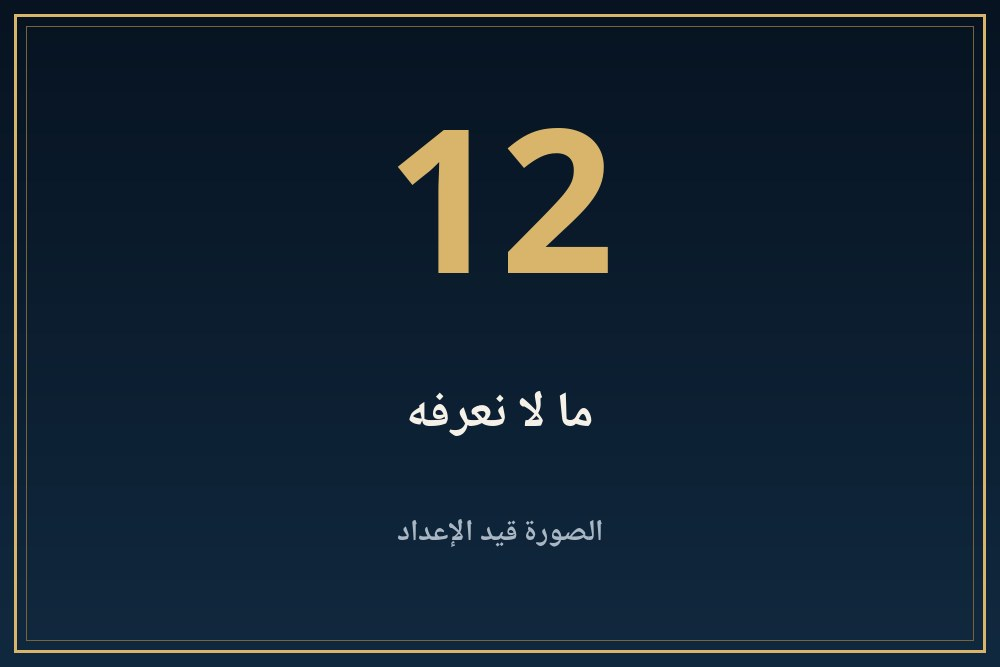
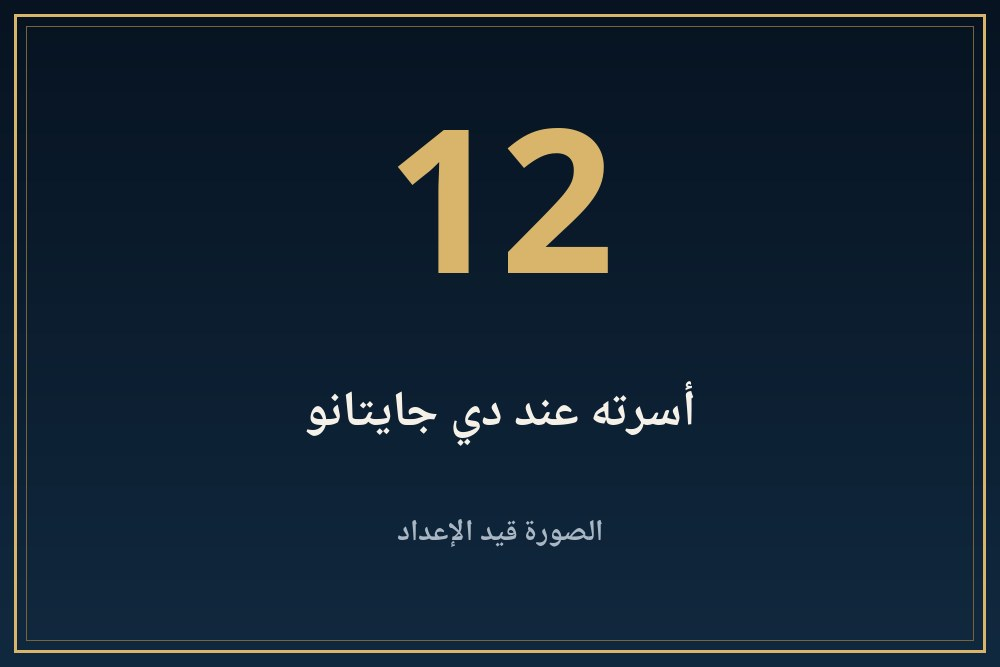
King card 54 folder 103: updated JSON

Changed region(s): [[0.31, 0.5697, 0.713, 0.6597]]

diff --git a/kings/103-nfr-htb-alawl-kha-skhm-ra/index.html b/kings/103-nfr-htb-alawl-kha-skhm-ra/index.html
@@ -320,11 +320,11 @@ html[dir=ltr] #panav.open,#pash[dir=ltr] #panav.open{border-right:0!important;bo
 .abt li{display:grid;grid-template-columns:62px 1fr;gap:10px;align-items:baseline;font-size:14px;line-height:1.85;color:#d6dee8}
 .abt li b{color:#d8b56b;font-size:13px;font-weight:700}
 @media(max-width:520px){.abt li{grid-template-columns:1fr;gap:0}.abt li b{margin-bottom:0}}</style><style id="back-ctl">.back-controls{z-index:80}.back-controls{position:fixed;bottom:18px;left:18px;z-index:30;display:flex;flex-direction:row;align-items:center;gap:8px;direction:ltr}.back-top{position:static;background:#d8b56b;color:#091725;border:1px solid rgba(240,215,157,.65);border-radius:50%;width:36px;height:36px;min-width:36px;padding:0;font-size:18px;line-height:1;cursor:pointer;box-shadow:0 5px 16px #0005;display:none;align-items:center;justify-content:center}.back-top.visible{display:flex}.back-top:hover{background:#f0d79d;transform:translateY(-1px)}@media(max-width:600px){.back-controls{bottom:12px;left:12px;gap:6px}.back-top{width:34px;height:34px;min-width:34px;font-size:17px}}.back-controls{display:flex;flex-direction:row;align-items:center;justify-content:center;gap:7px;direction:ltr}.back-top{width:32px;height:32px;min-width:32px;font-size:16px;background:#d8b56b;color:#091725;border:1px solid #f0d79d;box-shadow:0 4px 12px #0005}@media(max-width:600px){.back-controls{left:12px;bottom:12px;gap:6px}.back-top{width:31px;height:31px;min-width:31px;font-size:15px}}</style><style id="herodesk">@media(min-width:768px){header.hero{display:block!important}header.hero .hero-img{display:block!important;margin:0 auto 28px!important;max-width:460px!important;width:100%!important}header.hero .hero-img img{width:100%!important;height:auto!important;border-radius:18px}header.hero .hero-txt{margin-top:0!important}}</style><style id="urlwrap">.acc .body,.acc .body p,.acc .body li,.acc .body a,.acc .body ol,.acc .body ul{overflow-wrap:anywhere;word-break:break-word;min-width:0;max-width:100%}.acc .body a{display:inline;unicode-bidi:plaintext}</style></head><div class="pa-topline"></div><div id="pash"><div class="pa-nav"><a aria-label="بر عنخ الرئيسية" class="pa-brand" href="/"><span class="pa-mark"><span>𓂀</span></span><span class="pa-name">PER ANKH<small>بيت الحياة · HOUSE OF LIFE</small></span></a><nav aria-label="التنقل الرئيسي في الموقع" id="panav"><a href="/#home" data-ar="الرئيسية" data-en="Home">الرئيسية</a><a href="/#discover" data-ar="الأقسام الرئيسية" data-en="Main sections">الأقسام الرئيسية</a><a href="/#kings-details" data-ar="الملوك" data-en="Kings">الملوك</a><a href="/#religion-details" data-ar="الديانة" data-en="Religion">الديانة</a><a href="/#timeline-details" data-ar="العصور والأسرات" data-en="Eras &amp; dynasties">العصور والأسرات</a><a href="/#sites-details" data-ar="المواقع الأثرية" data-en="Archaeological sites">المواقع الأثرية</a><a href="/#library-details" data-ar="المكتبة" data-en="Library">المكتبة</a><a href="/#learning-details" data-ar="التعلم والاختبار" data-en="Learning &amp; quiz">التعلم والاختبار</a><a href="/#about" data-ar="المؤسس" data-en="Founder">المؤسس</a><a class="nav-extra" href="/#architecture-details" data-ar="العمارة والفنون" data-en="Architecture &amp; art">العمارة والفنون</a><a class="nav-extra" href="/#daily-life-details" data-ar="الحياة اليومية" data-en="Daily life">الحياة اليومية</a><a class="nav-extra" href="/#virtual-museum" data-ar="المتحف الافتراضي" data-en="Virtual museum">المتحف الافتراضي</a><a class="nav-extra" href="/#digital-lab" data-ar="معمل الآثار الرقمي" data-en="Digital archaeology lab">معمل الآثار الرقمي</a><a class="nav-extra" href="/#academy-details" data-ar="أكاديمية بر عنخ" data-en="Per Ankh academy">أكاديمية بر عنخ</a><a class="nav-extra" href="/#references-details" data-ar="المراجع والمصادر" data-en="References &amp; sources">المراجع والمصادر</a><a class="nav-extra" href="/#library-expanded" data-ar="المكتبة الأثرية" data-en="Archaeological library">المكتبة الأثرية</a><a class="nav-extra" href="/#interactive-lab" data-ar="مختبر الحضارة التفاعلي" data-en="Interactive lab">مختبر الحضارة التفاعلي</a><a class="nav-extra" href="/#atlas-explorer" data-ar="الأطلس الأثري" data-en="Archaeological atlas">الأطلس الأثري</a><a class="nav-extra" href="/#photo-gallery" data-ar="معرض الصور الأثري" data-en="Photo gallery">معرض الصور الأثري</a><a class="nav-extra" href="/#community-hub" data-ar="مجتمع بر عنخ" data-en="Community">مجتمع بر عنخ</a></nav><div class="pa-act"><button class="pa-lang" id="paLang" type="button">EN</button><a class="pa-acc" id="paAcc" href="/?account=1" data-ar="حسابي" data-en="Account" aria-label="فتح حساب المستخدم">حسابي</a><button class="pa-menu" id="paMenu" type="button" aria-controls="panav" aria-expanded="false" aria-haspopup="true" aria-label="فتح قائمة أقسام الموقع">☰</button></div></div></div><main class="wrap"><nav class="pa-crumb" id="paCrumb" aria-label="مسار الصفحة"><a href="/" data-ar="الرئيسية" data-en="Home">الرئيسية</a><i aria-hidden="true">‹</i><a href="/#kings-details" data-ar="ملوك مصر القديمة" data-en="Ancient Egyptian Kings">ملوك مصر القديمة</a><i aria-hidden="true">‹</i><span aria-current="page" data-ar="نفر حتب الأول (خع سخم رع)" data-en="Neferhotep I">نفر حتب الأول (خع سخم رع)</span></nav><p class="pa-ennote" id="paNote" hidden>The Neferhotep I article below is in Arabic. An English translation has not been prepared yet.</p><article><header class="hero"><i class="deco l"></i><i class="deco r"></i><div class="hero-img"><img src="banners/cover_b.jpg?v=3" alt="نفر حتب الأول (خع سخم رع)" width="900" height="1200" fetchpriority="high"></div>
-<div class="hero-txt"><div class="eyebrow" aria-hidden="true"></div><h1>نفر حتب الأول (خع سخم رع)</h1><p class="sub">ملك من منتصف الأسرة الثالثة عشرة؛ شواهده تمتد من أبيدوس وأسوان إلى جبيل</p></div></header><div class="tools"><button id="all" type="button"><svg viewBox="0 0 24 24" width="24" height="24" fill="none" stroke="currentColor" stroke-width="2.4" stroke-linecap="round" stroke-linejoin="round" aria-hidden="true"><path d="M6 6l6 6 6-6M6 13l6 6 6-6"/></svg><span>فتح الكل</span></button><button id="none" type="button"><svg viewBox="0 0 24 24" width="24" height="24" fill="none" stroke="currentColor" stroke-width="2" stroke-linejoin="round" stroke-linecap="round" aria-hidden="true"><rect x="3" y="4" width="18" height="16" rx="2"/><circle cx="9" cy="9.5" r="1.6" fill="currentColor"/><path d="M3.5 18l5.5-5.5 4 4 3-3 4.5 4.5"/></svg><span>إغلاق الكل</span></button></div><div class="legend" role="note"><b>دليل العلامات في الصفحة</b>
+<div class="hero-txt"><div class="eyebrow" aria-hidden="true"></div><h1>نفر حتب الأول (خع سخم رع)</h1><p class="sub">لوحة العرابة: ملك يبحث في الكتب القديمة عن صورة أوزير</p></div></header><div class="tools"><button id="all" type="button"><svg viewBox="0 0 24 24" width="24" height="24" fill="none" stroke="currentColor" stroke-width="2.4" stroke-linecap="round" stroke-linejoin="round" aria-hidden="true"><path d="M6 6l6 6 6-6M6 13l6 6 6-6"/></svg><span>فتح الكل</span></button><button id="none" type="button"><svg viewBox="0 0 24 24" width="24" height="24" fill="none" stroke="currentColor" stroke-width="2" stroke-linejoin="round" stroke-linecap="round" aria-hidden="true"><rect x="3" y="4" width="18" height="16" rx="2"/><circle cx="9" cy="9.5" r="1.6" fill="currentColor"/><path d="M3.5 18l5.5-5.5 4 4 3-3 4.5 4.5"/></svg><span>إغلاق الكل</span></button></div><div class="legend" role="note"><b>دليل العلامات في الصفحة</b>
 <div class="row"><span class="bdg v">موثّق</span><span>مذكور في مصدر مرقّم يمكن فتحه من قسم المراجع.</span></div>
 <div class="row"><span class="bdg d">محل خلاف</span><span>الصفحة نفسها تذكر أن الباحثين أو المصادر مختلفون فيه.</span></div>
 <div class="row"><span class="bdg u">لم يُتحقق منه</span><span>الصفحة تذكر أنه من مصدر واحد ولم يُتحقق منه في مصدر ثانٍ.</span></div></div>
-<div class="band" aria-hidden="true"></div><details class="acc k1" id="s1"><summary><img class="bnr" src="banners/b01.jpg?v=1" alt="" width="1000" height="667"><span class="n">1</span><span class="t">من هو؟</span><span class="ch"></span></summary><div class="body"><button class="lbtn" type="button" disabled aria-disabled="true" style="opacity:.55;cursor:default"><svg viewBox="0 0 24 24" fill="currentColor" aria-hidden="true"><path d="M7 4.5v15a1 1 0 001.5.86l12-7.5a1 1 0 000-1.72l-12-7.5A1 1 0 007 4.5z"/></svg><span>التعليق الصوتي قريبًا</span></button><p><span class="bdg v">موثّق</span> يقول سليم (ج4 ص53) إن «نفر حتب» خلف سبك حتب الثالث بحسب ورقة تورين، وإن اسمه «خع سخم رع». ويقول (ص105) إن نظام الحكم في الأسرة الثالثة عشرة بقي كما كان في الأسرة الثانية عشرة.<sup><a href="#r1">[1]</a></sup></p></div></details><details class="acc k2" id="s2"><summary><img class="bnr" src="banners/b02.jpg?v=1" alt="" loading="lazy" width="1000" height="667"><span class="n">2</span><span class="t">أسرته</span><span class="ch"></span></summary><div class="body"><button class="lbtn" type="button" disabled aria-disabled="true" style="opacity:.55;cursor:default"><svg viewBox="0 0 24 24" fill="currentColor" aria-hidden="true"><path d="M7 4.5v15a1 1 0 001.5.86l12-7.5a1 1 0 000-1.72l-12-7.5A1 1 0 007 4.5z"/></svg><span>التعليق الصوتي قريبًا</span></button><p><span class="bdg v">موثّق</span> يقول سليم (ص53) إن نسبه عرف من ثلاثة نقوش على الصخر (أسوان وسهل وشط الرجال) ومن جعارين: أبوه «حاعنخف» وأمه «كمي» وزوجه «سنسنب» وبكره «ساحتحور» الذي اشترك معه في الحكم. وله ثلاثة أولاد آخرون هم «سبك حتب» و«حاعنخف» و«حرحتب»، وأخوان تولى كل منهما العرش فيما بعد: سبك حتب الرابع و«من وازرع».<sup><a href="#r1">[1]</a></sup></p></div></details><details class="acc k3" id="s3"><summary><img class="bnr" src="banners/b03.jpg?v=1" alt="" loading="lazy" width="1000" height="667"><span class="n">3</span><span class="t">لوحة العرابة: ما طلبه الملك</span><span class="ch"></span></summary><div class="body"><button class="lbtn" type="button" disabled aria-disabled="true" style="opacity:.55;cursor:default"><svg viewBox="0 0 24 24" fill="currentColor" aria-hidden="true"><path d="M7 4.5v15a1 1 0 001.5.86l12-7.5a1 1 0 000-1.72l-12-7.5A1 1 0 007 4.5z"/></svg><span>التعليق الصوتي قريبًا</span></button><p><span class="bdg v">موثّق</span> ينقل سليم (ص54-55) لوحة في العرابة المدفونة من السنة الثانية، فيها أن الملك جمع الأشراف وكتاب الكتب السرية وقال إن قلبه تاق إلى رؤية الكتابات القديمة الخاصة بآتوم، وإنه يريد أن يعرف أوزير في صورته الحقيقية ليصنع له تمثالا كما كان قديما. فأجابه الأشراف بأن كل ما يأمر به سينفذ، فذهب إلى المكتبة وفتح الكتب ووجد سجلات معبد أوزير.<sup><a href="#r1">[1]</a></sup></p></div></details><details class="acc k4" id="s4"><summary><img class="bnr" src="banners/b04.jpg?v=1" alt="" loading="lazy" width="1000" height="667"><span class="n">4</span><span class="t">الرحلة والاحتفال</span><span class="ch"></span></summary><div class="body"><button class="lbtn" type="button" disabled aria-disabled="true" style="opacity:.55;cursor:default"><svg viewBox="0 0 24 24" fill="currentColor" aria-hidden="true"><path d="M7 4.5v15a1 1 0 001.5.86l12-7.5a1 1 0 000-1.72l-12-7.5A1 1 0 007 4.5z"/></svg><span>التعليق الصوتي قريبًا</span></button><p><span class="bdg v">موثّق</span> يقول سليم (ص55-56) إن الملك أمر ضابطا بأن يصعد في النيل بجنود وبحارة دون نوم حتى يصل إلى العرابة ويأتي بتمثال أوزير، ثم وصل الملك بعد أيام في القارب المقدس، وأخرج التمثال من قبره، وقدم القرابين، وسار وبوات أمامه مرشدا، ووضع التمثال في المحراب الذهبي أسابيع أثناء عمل الصناع، وأشرف الملك بنفسه على ما يصاغ من الذهب.<sup><a href="#r1">[1]</a></sup></p></div></details><details class="acc k1" id="s5"><summary><img class="bnr" src="banners/b05.jpg?v=1" alt="" loading="lazy" width="1000" height="667"><span class="n">5</span><span class="t">دراما موت أوزير</span><span class="ch"></span></summary><div class="body"><button class="lbtn" type="button" disabled aria-disabled="true" style="opacity:.55;cursor:default"><svg viewBox="0 0 24 24" fill="currentColor" aria-hidden="true"><path d="M7 4.5v15a1 1 0 001.5.86l12-7.5a1 1 0 000-1.72l-12-7.5A1 1 0 007 4.5z"/></svg><span>التعليق الصوتي قريبًا</span></button><p><span class="bdg v">موثّق</span> يقول سليم (ص54) إن الملك أحضر على حسب أوامره الخاصة تمثال أوزير من قبره ليقابله عند وصوله، ثم عاد الملك والتمثال معا إلى المعبد، وهناك مثلت «دراما» موت أوزير ثم إحيائه، وإن سليم تكلم عن ذلك في الجزء الثالث.<sup><a href="#r1">[1]</a></sup></p></div></details><details class="acc k2" id="s6"><summary><img class="bnr" src="banners/b06.jpg?v=1" alt="" loading="lazy" width="1000" height="667"><span class="n">6</span><span class="t">تحذير الملك</span><span class="ch"></span></summary><div class="body"><button class="lbtn" type="button" disabled aria-disabled="true" style="opacity:.55;cursor:default"><svg viewBox="0 0 24 24" fill="currentColor" aria-hidden="true"><path d="M7 4.5v15a1 1 0 001.5.86l12-7.5a1 1 0 000-1.72l-12-7.5A1 1 0 007 4.5z"/></svg><span>التعليق الصوتي قريبًا</span></button><p><span class="bdg v">موثّق</span> ينقل سليم (ص56-57) قول الملك للكهنة بأن يبقوا يقظين في المعبد ويحافظوا على آثاره، وأن من يعاديه لن يبقى اسمه بين الأحياء، وأن العقاب سيحل بكل من يهمل أوامره، وأنه أقام هذه الآثار لأوزير لأنه أحبه أكثر من كل ما سواه، وأن يمنحه «ملايين السنين».<sup><a href="#r1">[1]</a></sup></p></div></details><details class="acc k3" id="s7"><summary><img class="bnr" src="banners/b07.jpg?v=1" alt="" loading="lazy" width="1000" height="667"><span class="n">7</span><span class="t">لوحتا حدود الجبانة</span><span class="ch"></span></summary><div class="body"><button class="lbtn" type="button" disabled aria-disabled="true" style="opacity:.55;cursor:default"><svg viewBox="0 0 24 24" fill="currentColor" aria-hidden="true"><path d="M7 4.5v15a1 1 0 001.5.86l12-7.5a1 1 0 000-1.72l-12-7.5A1 1 0 007 4.5z"/></svg><span>التعليق الصوتي قريبًا</span></button><p><span class="bdg v">موثّق</span> يقول سليم (ص57) إن الملك أقام بعد عامين، في السنة الرابعة، لوحتين حدا الجبانة العظيمة خلف العرابة لمنع العامة من اقتحام هذا الجزء، وتخصيصه لوبوات، وبقيت إحداهما. ويذكر أن من وجد داخل الحد تجب معاقبته ولو كان صانعا أو كاهنا.<sup><a href="#r1">[1]</a></sup></p></div></details><details class="acc k4" id="s8"><summary><img class="bnr" src="banners/b08.jpg?v=1" alt="" loading="lazy" width="1000" height="667"><span class="n">8</span><span class="t">شريكاه في الحكم</span><span class="ch"></span></summary><div class="body"><button class="lbtn" type="button" disabled aria-disabled="true" style="opacity:.55;cursor:default"><svg viewBox="0 0 24 24" fill="currentColor" aria-hidden="true"><path d="M7 4.5v15a1 1 0 001.5.86l12-7.5a1 1 0 000-1.72l-12-7.5A1 1 0 007 4.5z"/></svg><span>التعليق الصوتي قريبًا</span></button><p><span class="bdg d">محل خلاف</span> يقول سليم (ص58) إن «خع نفر سبك حتب» (أي سبك حتب الرابع) أشرك معه في الحكم، فقد ذكر اسماهما معا على حجر في الكرنك، لكن ورقة تورين وضعت بينهما «سيحتحور رع». ويرى سليم أن نفر حتب أشرك ابنه ساحتحور وأنه مات قبل أبيه، وأن لا أثر له. وينقل (ص61) عن إدورد مري أن ساحتحور لم يحكم إلا ثلاثة أيام ثم خلفه عمه.<sup><a href="#r1">[1]</a></sup></p></div></details><details class="acc k1" id="s9"><summary><img class="bnr" src="banners/b09.jpg?v=1" alt="" loading="lazy" width="1000" height="667"><span class="n">9</span><span class="t">جبيل وسواحل المتوسط</span><span class="ch"></span></summary><div class="body"><button class="lbtn" type="button" disabled aria-disabled="true" style="opacity:.55;cursor:default"><svg viewBox="0 0 24 24" fill="currentColor" aria-hidden="true"><path d="M7 4.5v15a1 1 0 001.5.86l12-7.5a1 1 0 000-1.72l-12-7.5A1 1 0 007 4.5z"/></svg><span>التعليق الصوتي قريبًا</span></button><p><span class="bdg d">محل خلاف</span> يقول سليم (ص58-59) إن ويجول رأى أن الدلتا أفلتت من هذه الأسرة وأن ملوك الأسرة الرابعة عشرة في سخا استولوا عليها، لكنه يرد بكشف في جبيل (ببلوص): حجر عليه أمير جالس وسطر بخرطوش «خع سخم رع نفر حتب» واسم أمير جبيل «بنتن» (وقرأه ديسو «يوناتان») ابن الأمير «رن». ويستنتج سليم أن الملك كان لا يزال يسيطر على ساحل المتوسط، ومنه أن الدلتا كانت في قبضته. فهذا استنتاج سليم، وهو يخالف رأي ويجول.<sup><a href="#r1">[1]</a></sup></p></div></details><details class="acc k2" id="s10"><summary><img class="bnr" src="banners/b10.jpg?v=1" alt="" loading="lazy" width="1000" height="667"><span class="n">10</span><span class="t">جنوبا وآثاره</span><span class="ch"></span></summary><div class="body"><button class="lbtn" type="button" disabled aria-disabled="true" style="opacity:.55;cursor:default"><svg viewBox="0 0 24 24" fill="currentColor" aria-hidden="true"><path d="M7 4.5v15a1 1 0 001.5.86l12-7.5a1 1 0 000-1.72l-12-7.5A1 1 0 007 4.5z"/></svg><span>التعليق الصوتي قريبًا</span></button><p><span class="bdg v">موثّق</span> يقول سليم (ص59-60) إن نفوذه امتد جنوب الشلال الثاني، فعثر على لوحة باسمه في بوهن قرب وادي حلفا ونقوش على صخور كونوسو وسهل وشط الرجال، وإن تمثالا صغيرا له من البروفير في متحف بولونيا، وإن اسمه جاء في قاعة الأجداد وورقة تورين، وإنه حكم نحو إحدى عشرة سنة على وجه التقريب.<sup><a href="#r1">[1]</a></sup></p></div></details><details class="acc k3" id="s11"><summary><img class="bnr" src="banners/b11.jpg?v=1" alt="" loading="lazy" width="1000" height="667"><span class="n">11</span><span class="t">أين كان مقره؟</span><span class="ch"></span></summary><div class="body"><button class="lbtn" type="button" disabled aria-disabled="true" style="opacity:.55;cursor:default"><svg viewBox="0 0 24 24" fill="currentColor" aria-hidden="true"><path d="M7 4.5v15a1 1 0 001.5.86l12-7.5a1 1 0 000-1.72l-12-7.5A1 1 0 007 4.5z"/></svg><span>التعليق الصوتي قريبًا</span></button><p><span class="bdg d">محل خلاف</span> يقول سليم (ص105) إنه «يظهر» أن مقر ملكه كان في منطقة منف، وإن ملوك الأسرة كانوا يقطعون الأحجار من وادي الحمامات لتماثيل ضخمة. وتمثال بولونيا عند سليم (ص59) يدل على أن منف كانت لا تزال في يده.<sup><a href="#r1">[1]</a></sup></p></div></details><details class="acc k4" id="s12"><summary><img class="bnr" src="banners/b12.jpg?v=1" alt="" loading="lazy" width="1000" height="667"><span class="n">12</span><span class="t">ما لا نعرفه</span><span class="ch"></span></summary><div class="body"><button class="lbtn" type="button" disabled aria-disabled="true" style="opacity:.55;cursor:default"><svg viewBox="0 0 24 24" fill="currentColor" aria-hidden="true"><path d="M7 4.5v15a1 1 0 001.5.86l12-7.5a1 1 0 000-1.72l-12-7.5A1 1 0 007 4.5z"/></svg><span>التعليق الصوتي قريبًا</span></button><p><span class="bdg u">لم يُتحقق منه</span> لا نقرأ في مقتطفنا ترتيب الأحداث بعد السنة الرابعة ولا كيف انتهى حكمه ولا مكان قبره. وبعض الجمل في لوحة العرابة مهشمة في نص سليم نفسه (ص56). جدول المقابلة: بطاقات الموقع تعد «سوبك حتب» الثاني هو خع عنخ رع والخامس هو خع حتب رع. وسليم حسن يسميهما «الخامس» و«السادس» على الترتيب، ويسمي خع نفر رع «الرابع» وسخم رع سواد تاوي «الثالث» مثل القائمة. ونعتمد ترقيم بطاقات الموقع مع ذكر ترقيم سليم عند كل ملك.</p></div></details><details class="acc k4" id="refs"><summary><img class="bnr" src="banners/b13.jpg?v=1" alt="" loading="lazy" width="1000" height="667"><span class="n">13</span><span class="t">المراجع</span><span class="ch"></span></summary><div class="body"><button class="lbtn" type="button" disabled aria-disabled="true" style="opacity:.55;cursor:default"><svg viewBox="0 0 24 24" fill="currentColor" aria-hidden="true"><path d="M7 4.5v15a1 1 0 001.5.86l12-7.5a1 1 0 000-1.72l-12-7.5A1 1 0 007 4.5z"/></svg><span>التعليق الصوتي قريبًا</span></button><p><b>مصادر فتحتُ صفحاتها وقرأتها:</b></p><ol><li id="r1" dir="auto">سليم حسن، موسوعة مصر القديمة، ج4 (طبعة هنداوي 2019)، أرقام صفحات PDF</li></ol><div class="flag"><b>تنبيه:</b> عدد المصادر المصرية المفتوحة لهذه الصفحة واحد فقط. لا نضيف تفاصيل لم تثبت في مصدر فتحناه وقرأنا نصه، وحيث يختلف المصدران ننسب كل رأي لصاحبه.</div></div></details></article><aside class="abt" aria-label="عن هذه الصفحة"><h3>عن هذه الصفحة</h3><ul><li><b>المحتوى</b><span>جزء من موسوعة بر عنخ التعليمية. التواريخ والتفسيرات وفق المراجع المتاحة، وقد تختلف التفاصيل بين الدراسات.</span></li><li><b>الصور</b><span>صور هذه الصفحة أماكن حجز مؤقتة إلى أن تُضاف الصور الفنية.</span></li><li><b>الصوت</b><span>التعليق الصوتي قيد الإعداد.</span></li></ul></aside><a class="back" href="/kings/">← تصفح المزيد</a><a class="back" href="/">العودة إلى الرئيسية</a><dialog id="lb"><img alt=""><p></p><button type="button">إغلاق</button></dialog>
+<div class="band" aria-hidden="true"></div><details class="acc k1" id="s1"><summary><img class="bnr" src="banners/b01.jpg?v=1" alt="" width="1000" height="667"><span class="n">1</span><span class="t">من هو؟</span><span class="ch"></span></summary><div class="body"><button class="lbtn" type="button" disabled aria-disabled="true" style="opacity:.55;cursor:default"><svg viewBox="0 0 24 24" fill="currentColor" aria-hidden="true"><path d="M7 4.5v15a1 1 0 001.5.86l12-7.5a1 1 0 000-1.72l-12-7.5A1 1 0 007 4.5z"/></svg><span>التعليق الصوتي قريبًا</span></button><p><span class="bdg v">موثّق</span> يقول سليم (ج4 ص53) إن «نفر حتب» خلف سبك حتب الثالث بحسب ورقة تورين، وإن اسمه «خع سخم رع». ويقول (ص105) إن نظام الحكم في الأسرة الثالثة عشرة بقي كما كان في الأسرة الثانية عشرة.<sup><a href="#r1">[1]</a></sup></p></div></details><details class="acc k2" id="s2"><summary><img class="bnr" src="banners/b02.jpg?v=1" alt="" loading="lazy" width="1000" height="667"><span class="n">2</span><span class="t">أسرته</span><span class="ch"></span></summary><div class="body"><button class="lbtn" type="button" disabled aria-disabled="true" style="opacity:.55;cursor:default"><svg viewBox="0 0 24 24" fill="currentColor" aria-hidden="true"><path d="M7 4.5v15a1 1 0 001.5.86l12-7.5a1 1 0 000-1.72l-12-7.5A1 1 0 007 4.5z"/></svg><span>التعليق الصوتي قريبًا</span></button><p><span class="bdg v">موثّق</span> يقول سليم (ص53) إن نسبه عرف من ثلاثة نقوش على الصخر (أسوان وسهل وشط الرجال) ومن جعارين: أبوه «حاعنخف» وأمه «كمي» وزوجه «سنسنب» وبكره «ساحتحور» الذي اشترك معه في الحكم. وله ثلاثة أولاد آخرون هم «سبك حتب» و«حاعنخف» و«حرحتب»، وأخوان تولى كل منهما العرش فيما بعد: سبك حتب الرابع و«من وازرع».<sup><a href="#r1">[1]</a></sup></p></div></details><details class="acc k3" id="s3"><summary><img class="bnr" src="banners/b03.jpg?v=1" alt="" loading="lazy" width="1000" height="667"><span class="n">3</span><span class="t">لوحة العرابة: ما طلبه الملك</span><span class="ch"></span></summary><div class="body"><button class="lbtn" type="button" disabled aria-disabled="true" style="opacity:.55;cursor:default"><svg viewBox="0 0 24 24" fill="currentColor" aria-hidden="true"><path d="M7 4.5v15a1 1 0 001.5.86l12-7.5a1 1 0 000-1.72l-12-7.5A1 1 0 007 4.5z"/></svg><span>التعليق الصوتي قريبًا</span></button><p><span class="bdg v">موثّق</span> ينقل سليم (ص54-55) لوحة في العرابة المدفونة من السنة الثانية، فيها أن الملك جمع الأشراف وكتاب الكتب السرية وقال إن قلبه تاق إلى رؤية الكتابات القديمة الخاصة بآتوم، وإنه يريد أن يعرف أوزير في صورته الحقيقية ليصنع له تمثالا كما كان قديما. فأجابه الأشراف بأن كل ما يأمر به سينفذ، فذهب إلى المكتبة وفتح الكتب ووجد سجلات معبد أوزير.<sup><a href="#r1">[1]</a></sup></p></div></details><details class="acc k4" id="s4"><summary><img class="bnr" src="banners/b04.jpg?v=1" alt="" loading="lazy" width="1000" height="667"><span class="n">4</span><span class="t">الرحلة والاحتفال</span><span class="ch"></span></summary><div class="body"><button class="lbtn" type="button" disabled aria-disabled="true" style="opacity:.55;cursor:default"><svg viewBox="0 0 24 24" fill="currentColor" aria-hidden="true"><path d="M7 4.5v15a1 1 0 001.5.86l12-7.5a1 1 0 000-1.72l-12-7.5A1 1 0 007 4.5z"/></svg><span>التعليق الصوتي قريبًا</span></button><p><span class="bdg v">موثّق</span> يقول سليم (ص55-56) إن الملك أمر ضابطا بأن يصعد في النيل بجنود وبحارة دون نوم حتى يصل إلى العرابة ويأتي بتمثال أوزير، ثم وصل الملك بعد أيام في القارب المقدس، وأخرج التمثال من قبره، وقدم القرابين، وسار وبوات أمامه مرشدا، ووضع التمثال في المحراب الذهبي أسابيع أثناء عمل الصناع، وأشرف الملك بنفسه على ما يصاغ من الذهب.<sup><a href="#r1">[1]</a></sup></p></div></details><details class="acc k1" id="s5"><summary><img class="bnr" src="banners/b05.jpg?v=1" alt="" loading="lazy" width="1000" height="667"><span class="n">5</span><span class="t">دراما موت أوزير</span><span class="ch"></span></summary><div class="body"><button class="lbtn" type="button" disabled aria-disabled="true" style="opacity:.55;cursor:default"><svg viewBox="0 0 24 24" fill="currentColor" aria-hidden="true"><path d="M7 4.5v15a1 1 0 001.5.86l12-7.5a1 1 0 000-1.72l-12-7.5A1 1 0 007 4.5z"/></svg><span>التعليق الصوتي قريبًا</span></button><p><span class="bdg v">موثّق</span> يقول سليم (ص54) إن الملك أحضر على حسب أوامره الخاصة تمثال أوزير من قبره ليقابله عند وصوله، ثم عاد الملك والتمثال معا إلى المعبد، وهناك مثلت «دراما» موت أوزير ثم إحيائه، وإن سليم تكلم عن ذلك في الجزء الثالث.<sup><a href="#r1">[1]</a></sup></p></div></details><details class="acc k2" id="s6"><summary><img class="bnr" src="banners/b06.jpg?v=1" alt="" loading="lazy" width="1000" height="667"><span class="n">6</span><span class="t">تحذير الملك</span><span class="ch"></span></summary><div class="body"><button class="lbtn" type="button" disabled aria-disabled="true" style="opacity:.55;cursor:default"><svg viewBox="0 0 24 24" fill="currentColor" aria-hidden="true"><path d="M7 4.5v15a1 1 0 001.5.86l12-7.5a1 1 0 000-1.72l-12-7.5A1 1 0 007 4.5z"/></svg><span>التعليق الصوتي قريبًا</span></button><p><span class="bdg v">موثّق</span> ينقل سليم (ص56-57) قول الملك للكهنة بأن يبقوا يقظين في المعبد ويحافظوا على آثاره، وأن من يعاديه لن يبقى اسمه بين الأحياء، وأن العقاب سيحل بكل من يهمل أوامره، وأنه أقام هذه الآثار لأوزير لأنه أحبه أكثر من كل ما سواه، وأن يمنحه «ملايين السنين».<sup><a href="#r1">[1]</a></sup></p></div></details><details class="acc k3" id="s7"><summary><img class="bnr" src="banners/b07.jpg?v=1" alt="" loading="lazy" width="1000" height="667"><span class="n">7</span><span class="t">لوحتا حدود الجبانة</span><span class="ch"></span></summary><div class="body"><button class="lbtn" type="button" disabled aria-disabled="true" style="opacity:.55;cursor:default"><svg viewBox="0 0 24 24" fill="currentColor" aria-hidden="true"><path d="M7 4.5v15a1 1 0 001.5.86l12-7.5a1 1 0 000-1.72l-12-7.5A1 1 0 007 4.5z"/></svg><span>التعليق الصوتي قريبًا</span></button><p><span class="bdg v">موثّق</span> يقول سليم (ص57) إن الملك أقام بعد عامين، في السنة الرابعة، لوحتين حدا الجبانة العظيمة خلف العرابة لمنع العامة من اقتحام هذا الجزء، وتخصيصه لوبوات، وبقيت إحداهما. ويذكر أن من وجد داخل الحد تجب معاقبته ولو كان صانعا أو كاهنا.<sup><a href="#r1">[1]</a></sup></p></div></details><details class="acc k4" id="s8"><summary><img class="bnr" src="banners/b08.jpg?v=1" alt="" loading="lazy" width="1000" height="667"><span class="n">8</span><span class="t">شريكاه في الحكم</span><span class="ch"></span></summary><div class="body"><button class="lbtn" type="button" disabled aria-disabled="true" style="opacity:.55;cursor:default"><svg viewBox="0 0 24 24" fill="currentColor" aria-hidden="true"><path d="M7 4.5v15a1 1 0 001.5.86l12-7.5a1 1 0 000-1.72l-12-7.5A1 1 0 007 4.5z"/></svg><span>التعليق الصوتي قريبًا</span></button><p><span class="bdg d">محل خلاف</span> يقول سليم (ص58) إن «خع نفر سبك حتب» (أي سبك حتب الرابع) أشرك معه في الحكم، فقد ذكر اسماهما معا على حجر في الكرنك، لكن ورقة تورين وضعت بينهما «سيحتحور رع». ويرى سليم أن نفر حتب أشرك ابنه ساحتحور وأنه مات قبل أبيه، وأن لا أثر له. وينقل (ص61) عن إدورد مري أن ساحتحور لم يحكم إلا ثلاثة أيام ثم خلفه عمه.<sup><a href="#r1">[1]</a></sup></p></div></details><details class="acc k1" id="s9"><summary><img class="bnr" src="banners/b09.jpg?v=1" alt="" loading="lazy" width="1000" height="667"><span class="n">9</span><span class="t">جبيل وسواحل المتوسط</span><span class="ch"></span></summary><div class="body"><button class="lbtn" type="button" disabled aria-disabled="true" style="opacity:.55;cursor:default"><svg viewBox="0 0 24 24" fill="currentColor" aria-hidden="true"><path d="M7 4.5v15a1 1 0 001.5.86l12-7.5a1 1 0 000-1.72l-12-7.5A1 1 0 007 4.5z"/></svg><span>التعليق الصوتي قريبًا</span></button><p><span class="bdg d">محل خلاف</span> يقول سليم (ص58-59) إن ويجول رأى أن الدلتا أفلتت من هذه الأسرة وأن ملوك الأسرة الرابعة عشرة في سخا استولوا عليها، لكنه يرد بكشف في جبيل (ببلوص): حجر عليه أمير جالس وسطر بخرطوش «خع سخم رع نفر حتب» واسم أمير جبيل «بنتن» (وقرأه ديسو «يوناتان») ابن الأمير «رن». ويستنتج سليم أن الملك كان لا يزال يسيطر على ساحل المتوسط، ومنه أن الدلتا كانت في قبضته. فهذا استنتاج سليم، وهو يخالف رأي ويجول.<sup><a href="#r1">[1]</a></sup></p></div></details><details class="acc k2" id="s10"><summary><img class="bnr" src="banners/b10.jpg?v=1" alt="" loading="lazy" width="1000" height="667"><span class="n">10</span><span class="t">جنوبا وآثاره</span><span class="ch"></span></summary><div class="body"><button class="lbtn" type="button" disabled aria-disabled="true" style="opacity:.55;cursor:default"><svg viewBox="0 0 24 24" fill="currentColor" aria-hidden="true"><path d="M7 4.5v15a1 1 0 001.5.86l12-7.5a1 1 0 000-1.72l-12-7.5A1 1 0 007 4.5z"/></svg><span>التعليق الصوتي قريبًا</span></button><p><span class="bdg v">موثّق</span> يقول سليم (ص59-60) إن نفوذه امتد جنوب الشلال الثاني، فعثر على لوحة باسمه في بوهن قرب وادي حلفا ونقوش على صخور كونوسو وسهل وشط الرجال، وإن تمثالا صغيرا له من البروفير في متحف بولونيا، وإن اسمه جاء في قاعة الأجداد وورقة تورين، وإنه حكم نحو إحدى عشرة سنة على وجه التقريب.<sup><a href="#r1">[1]</a></sup></p></div></details><details class="acc k3" id="s11"><summary><img class="bnr" src="banners/b11.jpg?v=1" alt="" loading="lazy" width="1000" height="667"><span class="n">11</span><span class="t">أين كان مقره؟</span><span class="ch"></span></summary><div class="body"><button class="lbtn" type="button" disabled aria-disabled="true" style="opacity:.55;cursor:default"><svg viewBox="0 0 24 24" fill="currentColor" aria-hidden="true"><path d="M7 4.5v15a1 1 0 001.5.86l12-7.5a1 1 0 000-1.72l-12-7.5A1 1 0 007 4.5z"/></svg><span>التعليق الصوتي قريبًا</span></button><p><span class="bdg d">محل خلاف</span> يقول سليم (ص105) إنه «يظهر» أن مقر ملكه كان في منطقة منف، وإن ملوك الأسرة كانوا يقطعون الأحجار من وادي الحمامات لتماثيل ضخمة. وتمثال بولونيا عند سليم (ص59) يدل على أن منف كانت لا تزال في يده.<sup><a href="#r1">[1]</a></sup></p></div></details><details class="acc k4" id="s12"><summary><img class="bnr" src="banners/b12.jpg?v=1" alt="" loading="lazy" width="1000" height="667"><span class="n">12</span><span class="t">أسرته عند دي جايتانو</span><span class="ch"></span></summary><div class="body"><button class="lbtn" type="button" disabled aria-disabled="true" style="opacity:.55;cursor:default"><svg viewBox="0 0 24 24" fill="currentColor" aria-hidden="true"><path d="M7 4.5v15a1 1 0 001.5.86l12-7.5a1 1 0 000-1.72l-12-7.5A1 1 0 007 4.5z"/></svg><span>التعليق الصوتي قريبًا</span></button><p><span class="bdg d">محل خلاف</span> يقول دي جايتانو (CRE 2022، ص113) إن أسرة الإخوة الثلاثة الذين حكموا في منتصف الأسرة 13، وهم نفر حتب الأول وساحتحور وسبك حتب الرابع، «لا تبدو من أسرة ذات مكانة بارزة». ويذكر أن أخوين لسبك حتب، اسمهما خاكاو وسنب، سُجّلا بلقب «ابن الملك»؛ ولا يحدد المقتطف رقم سبك حتب هنا. وهذا يقابل ما يرويه سليم في قسم «أسرته» عن الأب والأم والأبناء. نعرض الروايتين دون ترجيح.<sup><a href="#r2">[2]</a></sup></p></div></details><details class="acc k1" id="s13"><summary><img class="bnr" src="banners/b13.jpg?v=1" alt="" loading="lazy" width="1000" height="667"><span class="n">13</span><span class="t">ما لا نعرفه</span><span class="ch"></span></summary><div class="body"><button class="lbtn" type="button" disabled aria-disabled="true" style="opacity:.55;cursor:default"><svg viewBox="0 0 24 24" fill="currentColor" aria-hidden="true"><path d="M7 4.5v15a1 1 0 001.5.86l12-7.5a1 1 0 000-1.72l-12-7.5A1 1 0 007 4.5z"/></svg><span>التعليق الصوتي قريبًا</span></button><p><span class="bdg u">لم يُتحقق منه</span> لا نقرأ في مقتطفنا ترتيب الأحداث بعد السنة الرابعة ولا كيف انتهى حكمه ولا مكان قبره. وبعض الجمل في لوحة العرابة مهشمة في نص سليم نفسه (ص56). جدول المقابلة: بطاقات الموقع تعد «سوبك حتب» الثاني هو خع عنخ رع والخامس هو خع حتب رع. وسليم حسن يسميهما «الخامس» و«السادس» على الترتيب، ويسمي خع نفر رع «الرابع» وسخم رع سواد تاوي «الثالث» مثل القائمة. ونعتمد ترقيم بطاقات الموقع مع ذكر ترقيم سليم عند كل ملك.</p></div></details><details class="acc k4" id="refs"><summary><img class="bnr" src="banners/b14.jpg?v=1" alt="" loading="lazy" width="1000" height="667"><span class="n">14</span><span class="t">المراجع</span><span class="ch"></span></summary><div class="body"><button class="lbtn" type="button" disabled aria-disabled="true" style="opacity:.55;cursor:default"><svg viewBox="0 0 24 24" fill="currentColor" aria-hidden="true"><path d="M7 4.5v15a1 1 0 001.5.86l12-7.5a1 1 0 000-1.72l-12-7.5A1 1 0 007 4.5z"/></svg><span>التعليق الصوتي قريبًا</span></button><p><b>مصادر فتحتُ صفحاتها وقرأتها:</b></p><ol><li id="r1" dir="auto">سليم حسن، موسوعة مصر القديمة، ج4 (طبعة هنداوي 2019)، أرقام صفحات PDF</li><li id="r2" dir="auto">Francesco De Gaetano, «Soldiers Becoming Pharaohs or Pharaohs becoming Soldiers? Kingship and Warfare between the Middle Kingdom and the Second Intermediate Period»، في: Current Research in Egyptology 2022 (Archaeopress)، ص109-118 (ترقيم الكتاب المطبوع)</li></ol><div class="flag"><b>تنبيه:</b> عدد المصادر المصرية المفتوحة لهذه الصفحة واحد فقط. لا نضيف تفاصيل لم تثبت في مصدر فتحناه وقرأنا نصه، وحيث يختلف المصدران ننسب كل رأي لصاحبه.</div></div></details></article><aside class="abt" aria-label="عن هذه الصفحة"><h3>عن هذه الصفحة</h3><ul><li><b>المحتوى</b><span>جزء من موسوعة بر عنخ التعليمية. التواريخ والتفسيرات وفق المراجع المتاحة، وقد تختلف التفاصيل بين الدراسات.</span></li><li><b>الصور</b><span>صور هذه الصفحة أماكن حجز مؤقتة إلى أن تُضاف الصور الفنية.</span></li><li><b>الصوت</b><span>التعليق الصوتي قيد الإعداد.</span></li></ul></aside><a class="back" href="/kings/">← تصفح المزيد</a><a class="back" href="/">العودة إلى الرئيسية</a><dialog id="lb"><img alt=""><p></p><button type="button">إغلاق</button></dialog>
 <script>(function(){var A=function(){return document.querySelectorAll("details.acc")};
 document.getElementById("all").onclick=function(){A().forEach(function(d){d.open=true})};
 document.getElementById("none").onclick=function(){A().forEach(function(d){d.open=false})};
@@ -332,7 +332,7 @@ function go(h){var e=h&&document.getElementById(h.slice(1));if(!e)return;var d=e
 document.addEventListener("click",function(e){var a=e.target.closest&&e.target.closest('a[href^="#"]');if(a){go(a.getAttribute("href"))}});
 if(location.hash)go(location.hash);
 var d=document.getElementById("lb");if(!d||!d.showModal)return;var im=d.querySelector("img"),p=d.querySelector("p");document.addEventListener("click",function(e){var t=e.target;if(t.tagName=="IMG"&&t.closest(".fig")){im.src=t.src;im.alt=t.alt;p.textContent=t.closest("figure").querySelector("figcaption").innerText;d.showModal()}else if(t==d||t.tagName=="BUTTON"&&d.contains(t)){d.close()}})})();</script><div class="pbar" id="pbar"></div><div class="pl" id="pl" role="region" aria-label="مشغّل الاستماع"><div class="in"><button class="pp" id="pp" type="button" aria-label="تشغيل"><svg viewBox="0 0 24 24" fill="currentColor" aria-hidden="true"><path d="M7 4.5v15a1 1 0 001.5.86l12-7.5a1 1 0 000-1.72l-12-7.5A1 1 0 007 4.5z"/></svg></button><div class="mid"><div class="ttl"><span id="tt">استماع</span> <i>صوت اصطناعي</i></div><input id="sk" type="range" min="0" max="1000" value="0" aria-label="موضع التشغيل"><div class="tm"><span id="cur">0:00</span><span id="dur">0:00</span></div></div><div class="ex"><button id="bk" type="button" aria-label="رجوع 10 ثوانٍ">−10</button><button id="fw" type="button" aria-label="تقدم 10 ثوانٍ">+10</button><button id="sp" class="sp" type="button" aria-label="سرعة التشغيل">1×</button><button id="cl" type="button" aria-label="إغلاق المشغّل">✕</button></div><p class="err" id="er" role="alert" hidden>تعذر تحميل الملف الصوتي. حاول لاحقًا.</p></div><div aria-live="polite" id="st" style="position:absolute;left:-9999px"></div><audio id="au" preload="none"></audio></div></main><script>(function(){
-var S={"s1": ["من هو؟", 1], "s2": ["أسرته", 1], "s3": ["لوحة العرابة: ما طلبه الملك", 1], "s4": ["الرحلة والاحتفال", 1], "s5": ["دراما موت أوزير", 1], "s6": ["تحذير الملك", 1], "s7": ["لوحتا حدود الجبانة", 1], "s8": ["شريكاه في الحكم", 1], "s9": ["جبيل وسواحل المتوسط", 1], "s10": ["جنوبا وآثاره", 1], "s11": ["أين كان مقره؟", 1], "s12": ["ما لا نعرفه", 1], "refs": ["المراجع", 1]},$=function(i){return document.getElementById(i)},au=$("au"),pl=$("pl"),pp=$("pp"),sk=$("sk"),P="<svg viewBox=\"0 0 24 24\" fill=\"currentColor\" aria-hidden=\"true\"><path d=\"M7 4.5v15a1 1 0 001.5.86l12-7.5a1 1 0 000-1.72l-12-7.5A1 1 0 007 4.5z\"/></svg>",Q="<svg viewBox=\"0 0 24 24\" fill=\"currentColor\" aria-hidden=\"true\"><rect x=\"5.5\" y=\"4\" width=\"4.5\" height=\"16\" rx=\"1.2\"/><rect x=\"14\" y=\"4\" width=\"4.5\" height=\"16\" rx=\"1.2\"/></svg>",cur=null,part=1,seeking=false;
+var S={"s1": ["من هو؟", 1], "s2": ["أسرته", 1], "s3": ["لوحة العرابة: ما طلبه الملك", 1], "s4": ["الرحلة والاحتفال", 1], "s5": ["دراما موت أوزير", 1], "s6": ["تحذير الملك", 1], "s7": ["لوحتا حدود الجبانة", 1], "s8": ["شريكاه في الحكم", 1], "s9": ["جبيل وسواحل المتوسط", 1], "s10": ["جنوبا وآثاره", 1], "s11": ["أين كان مقره؟", 1], "s12": ["أسرته عند دي جايتانو", 1], "s13": ["ما لا نعرفه", 1], "refs": ["المراجع", 1]},$=function(i){return document.getElementById(i)},au=$("au"),pl=$("pl"),pp=$("pp"),sk=$("sk"),P="<svg viewBox=\"0 0 24 24\" fill=\"currentColor\" aria-hidden=\"true\"><path d=\"M7 4.5v15a1 1 0 001.5.86l12-7.5a1 1 0 000-1.72l-12-7.5A1 1 0 007 4.5z\"/></svg>",Q="<svg viewBox=\"0 0 24 24\" fill=\"currentColor\" aria-hidden=\"true\"><rect x=\"5.5\" y=\"4\" width=\"4.5\" height=\"16\" rx=\"1.2\"/><rect x=\"14\" y=\"4\" width=\"4.5\" height=\"16\" rx=\"1.2\"/></svg>",cur=null,part=1,seeking=false;
 function fmt(t){if(!isFinite(t))return"0:00";var m=Math.floor(t/60),s=Math.floor(t%60);return m+":"+(s<10?"0":"")+s}
 function btns(){document.querySelectorAll(".lbtn").forEach(function(b){var on=b.dataset.s===cur&&!au.paused;b.classList.toggle("on",on);b.querySelector("span").textContent=on?"إيقاف مؤقت":(b.dataset.s===cur&&au.currentTime>1?"أكمل الاستماع":"استمع لهذا القسم");b.querySelector("svg").outerHTML=on?Q:P})}
 function ui(){var pa=au.paused;pp.innerHTML=pa?P:Q;pp.setAttribute("aria-label",pa?"تشغيل":"إيقاف مؤقت");btns()}
